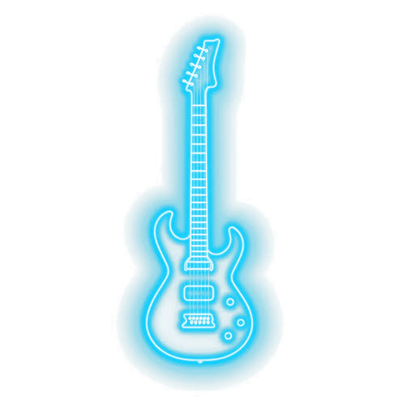
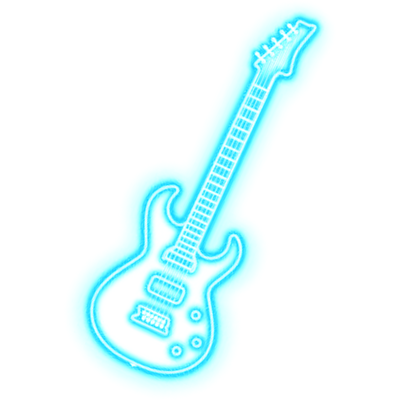
Tweak guitar glow falloff, rotate guitar clockwise, ensure absolute transparency

Changed region(s): [[0.18, 0.03, 0.81, 0.99]]

diff --git a/README.md b/README.md
@@ -21,8 +21,8 @@ When I'm not coding, I'm probably playing **guitar** or breaking game engines in
 </p>
 
 <p align="center">
-  <img src="https://raw.githubusercontent.com/SirEthic/SirEthic/main/artwork/game-controller.png?v=4" alt="Game Controller" width="160" />
-  <img src="https://raw.githubusercontent.com/SirEthic/SirEthic/main/artwork/neon-guitar.png?v=4" alt="Neon Guitar" width="160" />
+  <img src="https://raw.githubusercontent.com/SirEthic/SirEthic/main/artwork/game-controller.png?v=5" alt="Game Controller" width="160" />
+  <img src="https://raw.githubusercontent.com/SirEthic/SirEthic/main/artwork/neon-guitar.png?v=5" alt="Neon Guitar" width="160" />
   <img src="https://raw.githubusercontent.com/SirEthic/SirEthic/main/artwork/orbital-scene.svg" alt="Orbital Physics" width="160" />
 </p>
 
